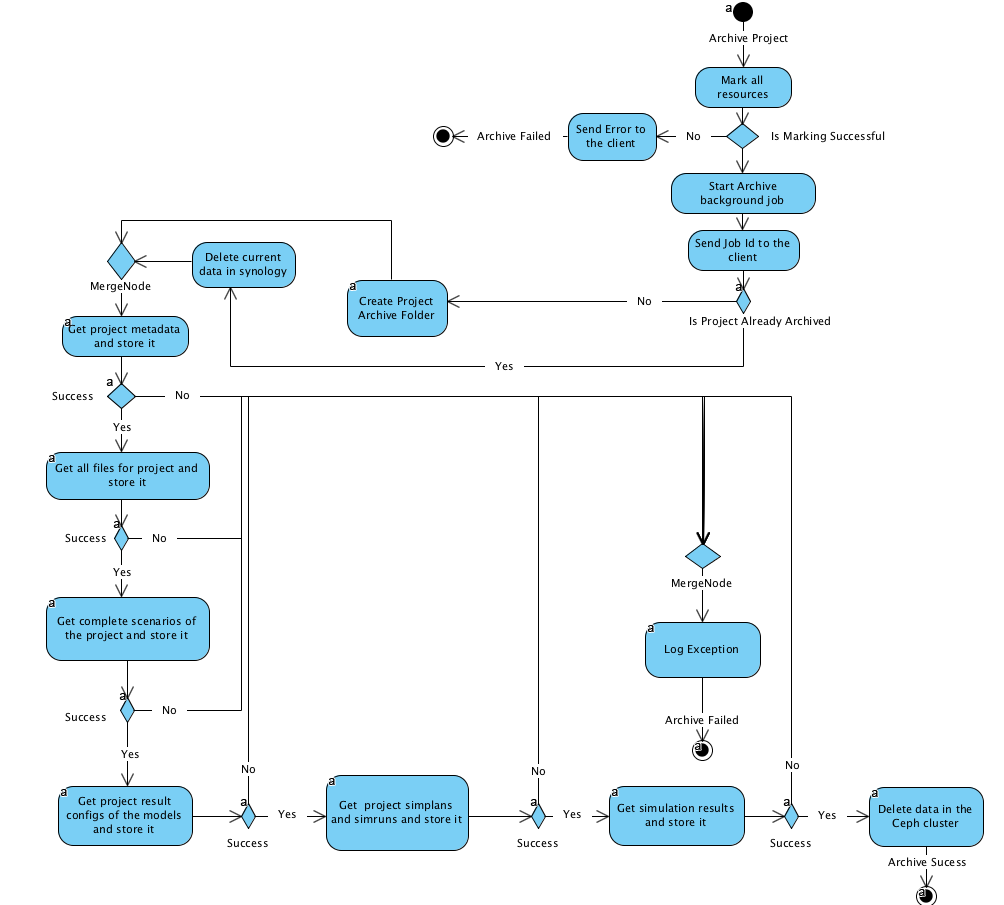
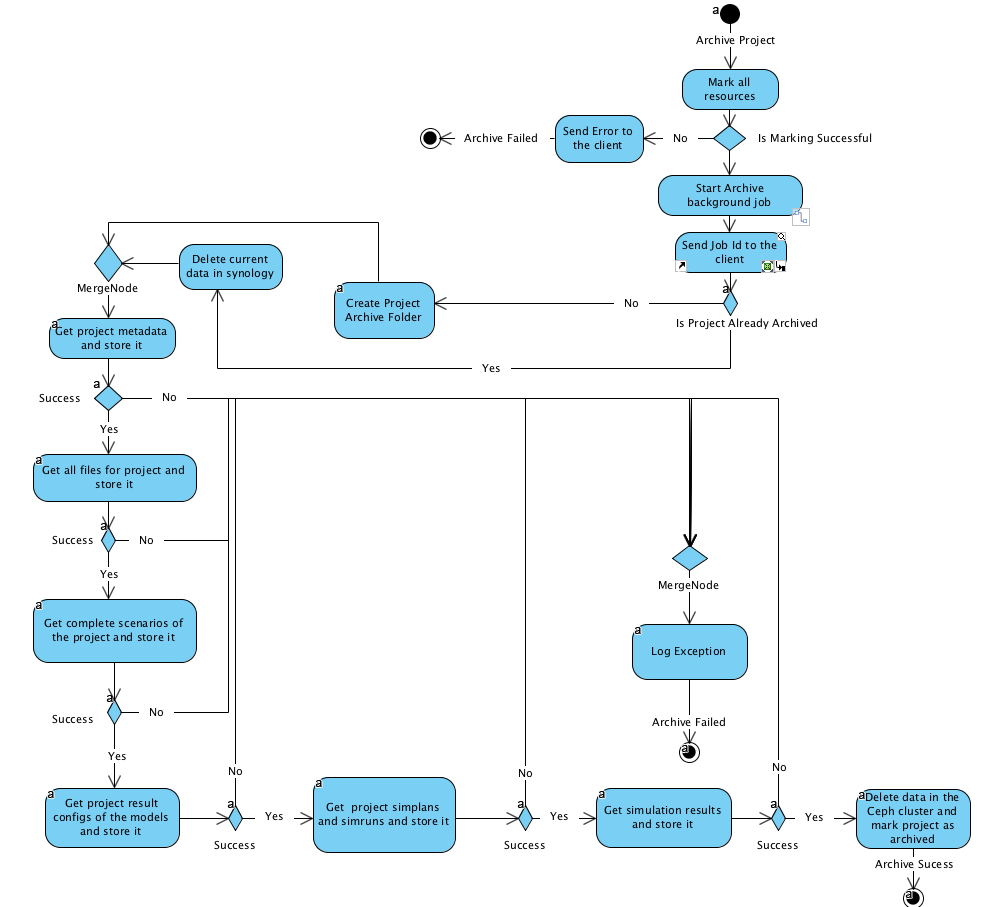
restore first drad

diff --git a/chapter/mainpart/design/restoreDesign.tex b/chapter/mainpart/design/restoreDesign.tex
@@ -1,4 +1,4 @@
-\section{Retrieve Behaviour}
+\section{Retrieve Process Design}
 This section describes the design and behaviour for restoring the archived project from the Synology back to the system
 so that it can be used again using the MARS UI.   
 
@@ -46,3 +46,52 @@ It is always not possible for all the transactions to occur and this would lead 
 incomplete data since the resources are dependent upon each other. Having an atomic transaction for the retrieve process would be a simple mechanism to overcome
 this issue. In case of any failure during retrieval the successfully restored resources would be deleted to make the retrieve process as an atomic action and
 provide a roll back function. 
+
+\subsection{Addition of functionalities in other services}
+The restoring requires a lot of end points to be called to upload the respective resources. After analyzing the MARS cloud and their available endpoints, it is
+seen that some functionality are not present in the current system which are required for restoring the complete system. These functionality have to be additionally
+added to the services in order avoid a direct access of the database by the Archive service. Table \ref{table:funcRestore} describes the functionalities that  must be
+added in the required services.
+
+%\begin{table}[]
+    %\centering
+    \begin{longtable}{|p{2cm}|p{6cm}|p{7cm}|}
+        \hline
+            \textbf{Service}  & \textbf{Functionality} & \textbf{Description}\\
+        \hline
+            Project service & Add archived and is being archived mark in the project &  The archived mark is necessary because
+            it would provide a user information if the project being queried is already archived or is in the process of archiving. This has to be
+            implemented using a GRPC communication since this is the implemented protocol compared to the other services.  \\
+        \hline
+            Scenario service & Return scenario id with the full scenarios & It is the case, that when a full scenarios is requested the scenario id is
+            not returned. The id is required by the archive while retrieval because it needs to map the old scenario id with the new one. If the mapping
+            cant be done the simulation plans cannot be created since they are dependent upon scenarios.\\
+        \hline
+            Sim-runner service & Upload a simulation run without running a simulation & Currently, the Sim-runner service executes the simulation run producing an
+            output. This is not desired by the archive service because an output is already available and it just needs to be restored. Therefore, an added 
+            functionality which just uploads the simulation runs without running a simulation is required.\\
+        \hline
+            DB-util service & Dump and restore for result database & The simulation results are normally big and it takes a longer and it is faster to
+            perform a dump for this. The dump and restore functionality must be added, so that the archive service can restore and archive the simulation results.\\
+        \hline
+            DB-util service & Make the dump and restore a background job & It is important that the dumping and resorting process is implemented as a background task
+            because it usually takes longer time.\\
+
+        \hline
+        \caption{Functionality required to be integrated in other services for retrieve process}
+        \label{table:funcRestore} 
+    \end{longtable}
+
+    \begin{figure}[H]
+        \centering \includegraphics[scale=0.45]{grafiken/stateRestore.png}
+        \caption{State Diagram of MARS project retrieval process considering empty states}
+        \label{fig:stateRestore}
+    \end{figure}
+
+    Figure \ref{fig:stateRestore} illustrates the transitions that can occur in the retrieval process. The state digram has a very similar procedure as for the
+    archive (Figure \ref{fig:stateArchive}) as they both execute their actions in the same order. 
+    Also, marking of the resources is not done before the start process, in contrast to the archive because Data Coherency issues are not present as the archived
+    data is store in a centralized storage i.e. Synology accessed only by archive service. 
+
+    
+%\end{table} 

diff --git a/chapter/mainpart/theory/mars.tex b/chapter/mainpart/theory/mars.tex
@@ -110,6 +110,8 @@
                 \hline
                     Sim-runner Service  & Handles Simulation plans and Simulation run .\\
                 \hline
+                    DB-util Service  & Handles all the simulation results and backup to synology.\\
+                \hline
                     Marking Service  & Handles the Marking of the resources, so that when the resource is marked by one service it cannot be altered .\\
                 \hline
                     Deletion Service  & Handles Deletion of the resources.\\

diff --git a/einstellungen/grundeinstellungen.tex b/einstellungen/grundeinstellungen.tex
@@ -81,7 +81,7 @@
 	pdftitle={Diplomarbeit im Fachbereich Elektrotechnik \& Informatik an der HAW-Hamburg},
 	pdfauthor={Bj�rn Jensen, http://www.mirou.de}]{hyperref}
  \pdfcompresslevel=9
- 
+ \usepackage{longtable}
 %---------------------------------------------------------------------------------------------------
 % Inhaltsverzeichnis und Abschnittnummerierung
 %---------------------------------------------------------------------------------------------------

diff --git a/chapter/mainpart/design/ArchiveDesign.tex b/chapter/mainpart/design/ArchiveDesign.tex
@@ -1,4 +1,4 @@
-\section{Archive Behaviour}
+\section{Archive Process Design}
 This section describes the design and behaviour of archiving a MARS complete project. Table \ref{table:preconditionsArchive} presents the preconditions with its 
 description which are required for the archiving process to occur. 
 
